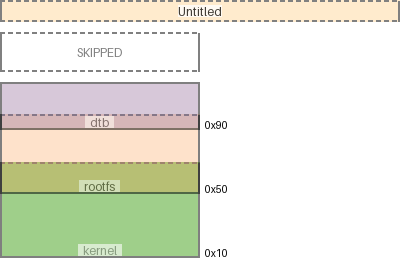
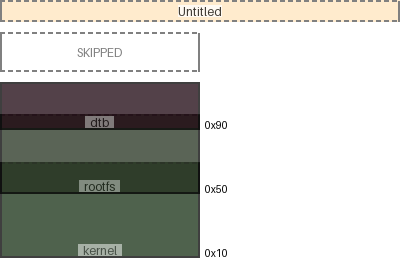
added schema setting for region alpha

diff --git a/mm/image.py b/mm/image.py
@@ -25,28 +25,38 @@ class Point:
     
 @typeguard.typechecked
 class Image():
+    """Base wrapper class for a PIL.Image.Image object"""
 
     def __init__(self, name: str, parent: str | None):
 
         self.img: PIL.Image.Image
+        """The image wrapped by this class"""
 
         self.parent: str = parent
+        """Identifying name of the the parent, if any"""
+
         self.name: str = name
-        """region name"""
+        """Identifying name of the image block"""
 
         self.line = "black"
         """The border colour to use for the region"""
 
         self.fill = self._pick_random_colour()
-        """random colour for region block"""
+        """Random colour for region block"""
 
         self.abs_pos = Point(0,0)
+        """Absolute 'left-corner' position of this image within the parent memory map image"""
+
         self.abs_mid_pos = Point(0,0)
+        """Absolute mid position of this image within the parent memory map image"""
 
     def _draw(self, **kwargs):
         raise NotImplementedError
 
-    def __init_abs_pos_data(self, xy: Point):
+    def __init_abs_pos_data(self, xy: Point) -> None:
+        """This function sets the absolute position of the image block relative to the memory map.
+        This can be used to locate the image position when constructing the overall diagram later on"""
+
         # retain the absolute positional data relative to the map
         self.abs_pos = xy
 
@@ -57,7 +67,8 @@ class Image():
             self.abs_mid_pos.y = self.abs_pos.y + (self.img.height // 2)
 
     def overlay(self, dest: PIL.Image.Image, xy: Point = Point(0,0), alpha: int = 255) -> PIL.Image.Image:
-        """Overlay this image onto the dest image. Return the composite image"""        
+        """Overlay this image onto the dest image. Return the composite image"""    
+
         self.__init_abs_pos_data(xy)
 
         mask_layer = PIL.Image.new('RGBA', dest.size, (0,0,0,0))
@@ -70,7 +81,9 @@ class Image():
         
         return PIL.Image.alpha_composite(dest, mask_layer)
 
-    def trim(self):
+    def trim(self) -> None:
+        """Detect and remove whitespace from self.img"""
+
         bg = PIL.Image.new(self.img.mode, self.img.size, self.img.getpixel((0,0)))
         diff = PIL.ImageChops.difference(self.img, bg)
         diff = PIL.ImageChops.add(diff, diff, 2.0, -100)
@@ -80,16 +93,19 @@ class Image():
         else:
             logging.warning("Error trimming image")
    
-    def _pick_random_colour(self):
-
-        r =random.randint(0, int("FF", 16))
-        g =random.randint(0, int("FF", 16))
-        b =random.randint(0, int("FF", 16))
-        a =random.randint(0, int("FF", 16))
+    def _pick_random_colour(self) -> Tuple[int, int, int, int]:
+        """Pick random RGBA colour band values"""
+        min_band = int("00", 16)
+        max_band = int("44", 16)
+        r =random.randint(min_band, max_band)
+        g =random.randint(min_band, max_band)
+        b =random.randint(min_band, max_band)
+        a =255
         return (r, g, b, a)
 
 @typeguard.typechecked
 class MapNameImage(Image):
+    """Wrapper class for PIL.Image.Image object. Represents a MemoryMap sub diagram."""
 
     def __init__(self, name: str, img_width: int, font_size: int, fill_colour:str, line_colour: str):
 
@@ -97,7 +113,7 @@ class MapNameImage(Image):
         
         self._draw(img_width, font_size, fill_colour, line_colour)
 
-    def _draw(self, img_width: int, font_size: int, fill_colour:str, line_colour: str):
+    def _draw(self, img_width: int, font_size: int, fill_colour:str, line_colour: str) -> None:
         """Create the image for the region rectangle and its inset name label"""
 
         txt_lbl =  TextLabelImage(self.name, text=self.name, font_size=font_size)
@@ -119,7 +135,7 @@ class MapNameImage(Image):
 
 @typeguard.typechecked
 class MemoryRegionImage(Image):
-    _colour_mappings = {}
+    """Wrapper class for PIL.Image.Image object. Represents a MemoryRegion block."""
 
     def __init__(self, name: str, mmap_parent: str, metadata: mm.metamodel.MemoryRegion, img_width: int, font_size: int):
 
@@ -134,8 +150,7 @@ class MemoryRegionImage(Image):
         self.draw_indent = 0
         """Index counter for incrementally shrinking the drawing indent"""
         
-        self.fill = None
-        self._reserve_random_colour()
+        self.fill = self._pick_random_colour()
         
         self.img_width = img_width
         self.font_size = font_size     
@@ -220,27 +235,10 @@ class MemoryRegionImage(Image):
                 str(self.freespace_as_hex),
                 "+" + str(None),
             ]
-
-    def _reserve_random_colour(self):
-        r =random.randint(0, int("FF", 16))
-        g =random.randint(0, int("FF", 16))
-        b =random.randint(0, int("FF", 16))
-        a =random.randint(0, int("FF", 16))
-
-        # TODO use parent name to add scope
-        if not self.name in MemoryRegionImage._colour_mappings:
-            MemoryRegionImage._colour_mappings[self.name] = (r, g, b, a)
-
-        for link in self.metadata.links:
-            if not link[1] in MemoryRegionImage._colour_mappings:
-                MemoryRegionImage._colour_mappings[link[1]] = (r, g, b, a)
-
-        return (r, g, b, a)
     
     def _draw(self):
         """Create the image for the region rectangle and its inset name label"""
 
-        self.fill = MemoryRegionImage._colour_mappings[self.name]
         logging.info(self)
 
         if self.freespace_as_int < 0:
@@ -251,7 +249,7 @@ class MemoryRegionImage(Image):
                 self.img_width, int(self.size_as_hex,16), fill=self.fill, line=self.line, dash=(0,0,0,0), stroke=2).img
 
         # draw name text
-        txt_lbl =  TextLabelImage(self.name, text=self.name, font_size=self.font_size, fill_colour="white", padding_width=10)
+        txt_lbl =  TextLabelImage(self.name, text=f"{self.name}", font_size=self.font_size, fill_colour="white", padding_width=10)
 
         region_img = txt_lbl.overlay(region_img, mm.image.Point((self.img_width - txt_lbl.img.width) // 2, 2), alpha=128 )
 

diff --git a/mm/diagram.py b/mm/diagram.py
@@ -40,6 +40,8 @@ class MemoryMapDiagram:
 
     def __init__(self, memory_map_metadata: Dict[str, mm.metamodel.MemoryMap]):
 
+        assert len(memory_map_metadata) == 1, "MemoryMapDiagram should omly be initialised with a single mm.metamodel.MemoryMap."
+
         self.name = next(iter(memory_map_metadata))
 
         self.default_region_text_size: int = 12
@@ -54,7 +56,6 @@ class MemoryMapDiagram:
         self.final_map_img_redux: PIL.Image.Image = None
         """Final image for this Memory Map"""
 
-        assert len(memory_map_metadata) == 1, "MemoryMapDiagram should omly be initialised with a single mm.metamodel.MemoryMap."
         
         self.width = next(iter(memory_map_metadata.values())).width
         self.height = next(iter(memory_map_metadata.values())).height
@@ -167,7 +168,7 @@ class MemoryMapDiagram:
                     map_img_redux = region.overlay(
                         dest=map_img_redux, 
                         xy=mm.image.Point(0, region.origin_as_int - last_void_pos), 
-                        alpha=128)
+                        alpha=int(Diagram.model.region_alpha))
                     
                     # add origin address text
                     map_img_redux = self._add_label(

diff --git a/tests/test_schema.py b/tests/test_schema.py
@@ -67,6 +67,25 @@ def test_schema_missing_memregion_size(input):
     with pytest.raises(pydantic.ValidationError): 
         mm.metamodel.Diagram(**test_data)
 
+def test_schema_region_alpha_limits(input):
+    test_data = input
+    
+    # default test_data contains non-empty string - should pass
+    mm.metamodel.Diagram(**test_data)
+
+    # invalidate test_data - should fail
+    test_data['region_alpha'] = ""
+    with pytest.raises(pydantic.ValidationError): 
+        mm.metamodel.Diagram(**test_data)
+
+    test_data['region_alpha'] = 256
+    with pytest.raises(pydantic.ValidationError): 
+        mm.metamodel.Diagram(**test_data)
+
+    test_data['region_alpha'] = -1
+    with pytest.raises(pydantic.ValidationError): 
+        mm.metamodel.Diagram(**test_data)
+
 def test_schema_hexstr_memregion_origin(input):
     test_data = input
     

diff --git a/mm/metamodel.py b/mm/metamodel.py
@@ -6,6 +6,7 @@ from typing import Tuple, Literal
 from typing_extensions import Annotated
 import logging
 import enum
+import decimal
 
 class ConfigParent(pydantic.BaseModel):
     model_config = pydantic.ConfigDict(
@@ -134,6 +135,10 @@ class Diagram(ConfigParent):
     indent_scheme: Annotated[
         IndentScheme,
         pydantic.Field(IndentScheme.alternate, description="Drawing indent for Memory Regions")
+    ]
+    region_alpha: Annotated[
+        int,
+        pydantic.Field(192, description="Transparency value for all region block images.", gt=-1, lt=256)
     ]
 
     @pydantic.field_validator("name")

diff --git a/doc/example/test_generate_doc_example_three_maps.md b/doc/example/test_generate_doc_example_three_maps.md
@@ -1,10 +1,10 @@
 ![memory map diagram](test_generate_doc_example_three_maps_cropped.png)
 |name|origin|size|free Space|collisions
 |:-|:-|:-|:-|:-|
-|<span style='color:(29, 157, 204, 44)'>Blob5</span>|0x78|0x20|0x350|{}|
-|<span style='color:(106, 38, 244, 244)'>Blob3</span>|0x50|0x20|0x8|{}|
-|<span style='color:(26, 173, 171, 10)'>Blob7</span>|0x50|0x20|0x378|{}|
-|<span style='color:(225, 133, 14, 120)'>Blob4</span>|0x28|0x20|0x8|{}|
-|<span style='color:(55, 135, 186, 46)'>Blob6</span>|0xa|0x3c|0xa|{}|
-|<span style='color:(106, 38, 244, 244)'>Blob1</span>|0x0|0x20|0x3c8|{}|
-|<span style='color:(106, 38, 244, 244)'>Blob2</span>|0x0|0x20|0x8|{}|
+|<span style='color:(54, 50, 28, 255)'>Blob5</span>|0x78|0x20|0x350|{}|
+|<span style='color:(23, 4, 42, 255)'>Blob3</span>|0x50|0x20|0x8|{}|
+|<span style='color:(30, 12, 49, 255)'>Blob7</span>|0x50|0x20|0x378|{}|
+|<span style='color:(23, 61, 56, 255)'>Blob4</span>|0x28|0x20|0x8|{}|
+|<span style='color:(3, 55, 51, 255)'>Blob6</span>|0xa|0x3c|0xa|{}|
+|<span style='color:(25, 49, 49, 255)'>Blob1</span>|0x0|0x20|0x3c8|{}|
+|<span style='color:(49, 0, 28, 255)'>Blob2</span>|0x0|0x20|0x8|{}|

diff --git a/doc/example/test_generate_doc_example_two_maps.md b/doc/example/test_generate_doc_example_two_maps.md
@@ -1,8 +1,8 @@
 ![memory map diagram](test_generate_doc_example_two_maps_cropped.png)
 |name|origin|size|free Space|collisions
 |:-|:-|:-|:-|:-|
-|<span style='color:(225, 133, 14, 120)'>Blob4</span>|0x100|0x10|0x2d8|{}|
-|<span style='color:(106, 38, 244, 244)'>Blob3</span>|0x50|0x10|0x388|{}|
-|<span style='color:(29, 157, 204, 44)'>Blob5</span>|0x30|0x10|0x10|{}|
-|<span style='color:(106, 38, 244, 244)'>Blob1</span>|0x10|0x10|0xe0|{}|
-|<span style='color:(106, 38, 244, 244)'>Blob2</span>|0x10|0x10|0x10|{}|
+|<span style='color:(44, 48, 61, 255)'>Blob4</span>|0x100|0x10|0x2d8|{}|
+|<span style='color:(37, 48, 1, 255)'>Blob3</span>|0x50|0x10|0x388|{}|
+|<span style='color:(5, 5, 49, 255)'>Blob5</span>|0x30|0x10|0x10|{}|
+|<span style='color:(29, 12, 30, 255)'>Blob1</span>|0x10|0x10|0xe0|{}|
+|<span style='color:(15, 44, 40, 255)'>Blob2</span>|0x10|0x10|0x10|{}|

diff --git a/doc/example/test_generate_doc_example_collisions.md b/doc/example/test_generate_doc_example_collisions.md
@@ -1,6 +1,6 @@
 ![memory map diagram](test_generate_doc_example_collisions_cropped.png)
 |name|origin|size|free Space|collisions
 |:-|:-|:-|:-|:-|
-|<span style='color:(144, 104, 152, 78)'>dtb</span>|0x90|0x30|0x328|{'rootfs': '0x90'}|
-|<span style='color:(251, 144, 53, 51)'>rootfs</span>|0x50|0x50|-0x10|{'kernel': '0x50', 'dtb': '0x90'}|
-|<span style='color:(85, 170, 47, 186)'>kernel</span>|0x10|0x60|-0x20|{'rootfs': '0x50'}|
+|<span style='color:(27, 3, 13, 255)'>dtb</span>|0x90|0x30|0x328|{'rootfs': '0x90'}|
+|<span style='color:(36, 49, 31, 255)'>rootfs</span>|0x50|0x50|-0x10|{'kernel': '0x50', 'dtb': '0x90'}|
+|<span style='color:(21, 47, 19, 255)'>kernel</span>|0x10|0x60|-0x20|{'rootfs': '0x50'}|

diff --git a/doc/example/test_generate_doc_example_normal.md b/doc/example/test_generate_doc_example_normal.md
@@ -1,6 +1,6 @@
 ![memory map diagram](test_generate_doc_example_normal_cropped.png)
 |name|origin|size|free Space|collisions
 |:-|:-|:-|:-|:-|
-|<span style='color:(144, 104, 152, 78)'>dtb</span>|0x190|0x30|0x228|{}|
-|<span style='color:(251, 144, 53, 51)'>rootfs</span>|0x50|0x30|0x110|{}|
-|<span style='color:(85, 170, 47, 186)'>kernel</span>|0x10|0x30|0x10|{}|
+|<span style='color:(26, 29, 32, 255)'>dtb</span>|0x190|0x30|0x228|{}|
+|<span style='color:(41, 61, 4, 255)'>rootfs</span>|0x50|0x30|0x110|{}|
+|<span style='color:(63, 63, 4, 255)'>kernel</span>|0x10|0x30|0x10|{}|
